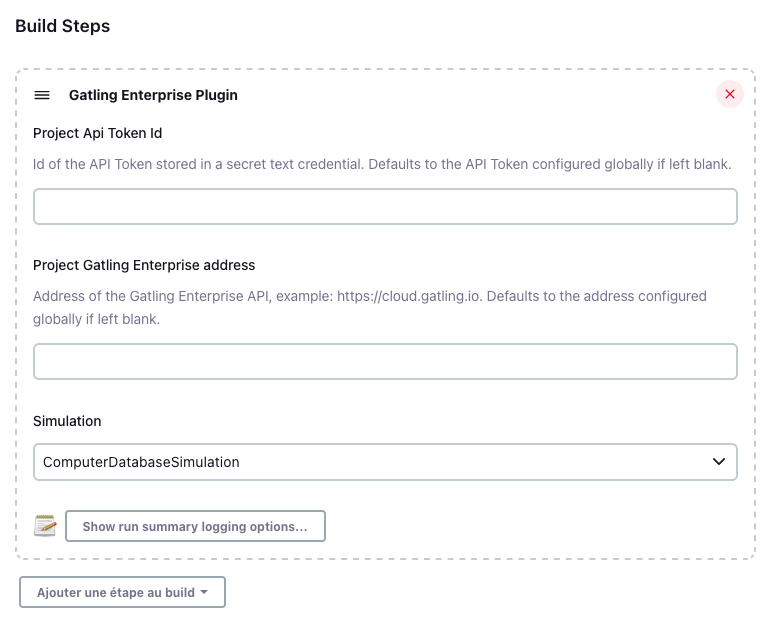
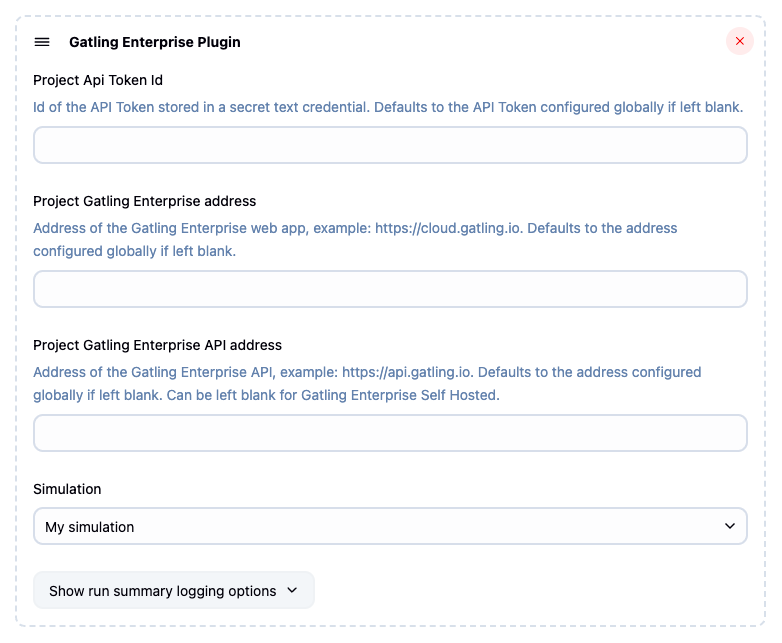
doc: Document API Address setting in CI plugins (#169)

Changed region(s): [[0.0, 0.0305, 0.9625, 0.9775]]

diff --git a/content/integrations/ci-cd/jenkins/index.md b/content/integrations/ci-cd/jenkins/index.md
@@ -56,7 +56,11 @@ The plugin needs some global configuration. Go to **Manage Jenkins**, **Configur
 
 Choose the Jenkins credentials where [you stored your API token]({{< ref "#api-token-and-jenkins-credentials" >}}).
 
-The **Address** is the address of Gatling Enterprise (use https://cloud.gatling.io).
+The **Address** is the address of Gatling Enterprise (use `https://cloud.gatling.io`). The **API Address** is for the public API (`https://api.gatling.io`).
+
+{{< alert info >}}
+If you specify the **Address** `https://cloud.gatling.io`, you can usually leave the **API Address** field blank as it will default to `https://api.gatling.io`. If you use an internal gateway to allow your Jenkins instance to call the Gatling Enterprise public API, you may need to specify your gateway address as the **API Address**.
+{{< /alert >}}
 
 {{< img src="global-configuration.png" alt="Global Configuration" >}}
 
@@ -79,7 +83,7 @@ pipeline {
     stages {
         stage("Gatling Enterprise simulation") {
             steps {
-                gatlingFrontLineLauncherStep credentialId: 'GATLING_API_TOKEN', simulationId: '00eacd1c-ef91-4076-ad57-99b4c6675a9e'
+                gatlingFrontLineLauncherStep simulationId: '00eacd1c-ef91-4076-ad57-99b4c6675a9e'
             }
         }
     }
@@ -90,11 +94,30 @@ pipeline {
 ```groovy
 node {
     stage("Gatling Enterprise simulation") {
-        gatlingFrontLineLauncherStep credentialId: 'GATLING_API_TOKEN', simulationId: '00eacd1c-ef91-4076-ad57-99b4c6675a9e'
+        gatlingFrontLineLauncherStep simulationId: '00eacd1c-ef91-4076-ad57-99b4c6675a9e'
     }
 }
 ```
 {{< img src="pipeline-configuration.png" alt="Pipeline Configuration" >}}
+
+#### Overriding the global configuration
+
+{{< alert info >}}
+This is especially useful when transitioning from Gatling Enterprise Self-Hosted to Gatling Enterprise Cloud, as you will need use the Cloud URLs and API token only for the simulations which have already been migrated.
+
+Only specifying a different `credentialId` can also be useful if you use API tokens with specific permissions (e.g. each restricted to one team).
+{{</ alert >}}
+
+If you do not want to use the globally configured URLs and API token, you can override their values for each step:
+
+```groovy
+gatlingFrontLineLauncherStep(
+    simulationId: '00eacd1c-ef91-4076-ad57-99b4c6675a9e',
+    credentialId: 'GATLING_API_TOKEN',
+    address: 'https://cloud.gatling.io',
+    apiAddress: 'https://api.gatling.io'
+)
+```
 
 #### Passing parameters
 
@@ -106,6 +129,8 @@ gatlingFrontLineLauncherStep(
     systemProps: ["var": "$var1", "sensitive.var2": "this prop won't be displayed in the run snapshot"]
 )
 ```
+
+#### Run status logging
 
 This step regularly prints a summary of the run's current status to the build logs. By default, the summary is printed every 5 seconds the first 12 times (i.e. for the first 60 seconds), and then every 60 seconds. You can configure this behavior (or completely disable these logs) with the following parameters:
 

diff --git a/content/integrations/ci-cd/bamboo/index.md b/content/integrations/ci-cd/bamboo/index.md
@@ -36,11 +36,16 @@ You need to be connected as an administrator of your Bamboo application to insta
 
 The plugin needs some global configuration. Go to **Administration**, then **Global variables**.
 
-Add two new variables:
+Add new variables:
 
-- the first one is named `frontline.address`, and corresponds to the address of Gatling Enterprise (`https://cloud.gatling.io` if using Gatling Enterprise).
-- the second one is named `frontline.apiTokenPassword`, and corresponds to the API token needs to authenticate to Gatling Enterprise:
+- `frontline.address` corresponds to the address of Gatling Enterprise (`https://cloud.gatling.io`).
+- `frontline.apiAddress` corresponds to the public API (`https://api.gatling.io`).
+- `frontline.apiTokenPassword` corresponds to the API token needed to authenticate to Gatling Enterprise:
   - the [API token]({{< ref "reference/collaborate/admin/api-tokens" >}}) needs the **Start** permission.
+
+{{< alert info >}}
+If you specify `https://cloud.gatling.io` for ``frontline.address``, you can leave out `frontline.apiAddress` as it will default to `https://api.gatling.io`. If you use an internal gateway to allow your Jenkins instance to call the Gatling Enterprise public API, you may need to specify your gateway address for `frontline.apiAddress`.
+{{< /alert >}}
 
 {{< img src="global-variable.png" alt="Global variable" >}}
 

diff --git a/content/integrations/ci-cd/teamcity/index.md b/content/integrations/ci-cd/teamcity/index.md
@@ -38,9 +38,14 @@ Once the plugin is uploaded, you need to enable it.
 
 The plugin needs a global configuration. Go to **Administration**, then **frontline-teamcity-plugin**:
 
-- the **Gatling Enterprise Address** is the address of Gatling Enterprise (https://cloud.gatling.io).
+- the **Gatling Enterprise Address** is the address of Gatling Enterprise (`https://cloud.gatling.io`).
+- the **Gatling Enterprise API Address** is for the public API (`https://api.gatling.io`).
 - the **Gatling Enterprise API Token** is needed to authenticate to Gatling Enterprise:
   - the [API token]({{< ref "reference/collaborate/admin/api-tokens" >}}) needs the **Start** permission.
+
+{{< alert info >}}
+If you specify the **Address** `https://cloud.gatling.io`, you can leave the **API Address** field blank as it will default to `https://api.gatling.io`. If you use an internal gateway to allow your Jenkins instance to call the Gatling Enterprise public API, you may need to specify your gateway address as the **API Address**.
+{{< /alert >}}
 
 {{< img src="administration.png" alt="" >}}
 
